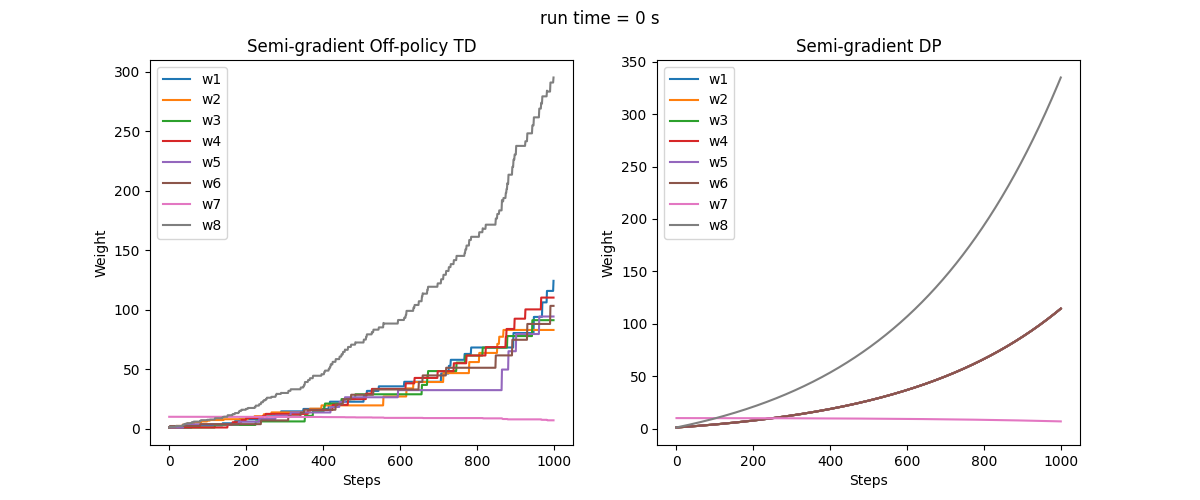
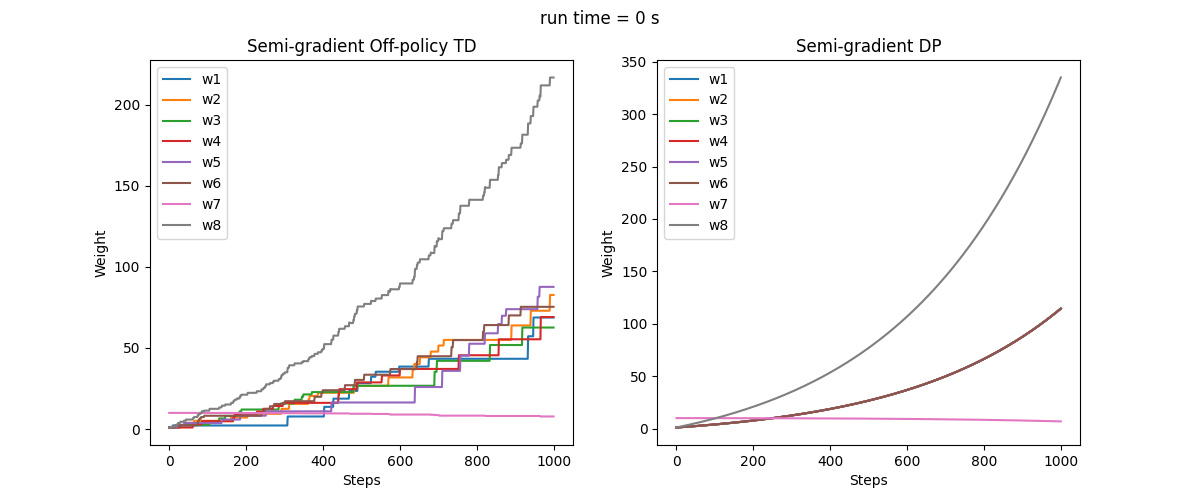
TDC

diff --git a/Part II/CH11/Bairds_counterexample_2.py b/Part II/CH11/Bairds_counterexample_2.py
@@ -11,6 +11,7 @@ class Baird:
         # Process Parameters
         self.state = 0
         self.weight = []
+        self.gradient_correction = []
 
         # Settings
         self.n_states = 7
@@ -18,19 +19,23 @@ class Baird:
         self.states = np.arange(self.n_states)
         self.max_steps = 1000
         self.eps = 0.1
-        self.step_size_alpha = 0.01
-        self.step_size_beta = 0.01
+        self.step_size_a = 0.01
+        self.step_size_b = 0.01
         self.discount = 0.99
         self.feature = np.zeros((self.n_states, self.n_weights))
 
         # Records
         self.weight_record = []
+        self.ve_record = []
+        self.pbe_record = []
 
     def reset(self):
         self.state = 0
-        self.weight = [1, 1, 1, 1, 1, 1, 10, 1]
+        self.weight = np.asarray([1, 1, 1, 1, 1, 1, 10, 1], dtype=float)
         self.weight_record = []
-
+        self.ve_record = []
+        self.pbe_record = []
+        self.gradient_correction = np.zeros(self.n_weights)
         for i, state in enumerate(self.states):
             if state in self.states[:-1]:
                 self.feature[i, i] = 2
@@ -52,6 +57,23 @@ class Baird:
             self.state = np.random.choice(self.states[:-1])
         return self.state
 
+    def mean_square_ve(self):
+        ve = np.sqrt(np.mean(np.power(np.dot(self.feature, self.weight), 2)))
+        self.ve_record.append(ve)
+
+    def mean_square_pbe(self):
+        be = np.zeros(self.n_states)
+        for state in self.states:
+            value, next_value = self.get_state_values(state), self.get_state_values(self.states[-1])
+            be[state] += 0 + self.discount * next_value - value
+        state_distribution = np.asarray([1 / self.n_states] * self.n_states)
+        state_distribution_mat = np.matrix(np.diag(state_distribution))
+        projection = np.matrix(self.feature) * \
+            np.linalg.pinv((self.feature.T * state_distribution_mat) * self.feature) * \
+            np.matrix(self.feature.T) * state_distribution_mat
+        be = np.dot(np.asarray(projection), be)
+        self.pbe_record.append(np.sqrt(np.dot(np.power(be, 2), state_distribution)))
+
     def semi_gradient_off_policy_td(self):
         self.reset()
         for _ in trange(self.max_steps):
@@ -60,7 +82,7 @@ class Baird:
             next_state = self.behavior_policy()
             next_value = self.get_state_values(next_state)
             if next_state == self.states[-1]:
-                change = 1/(1/self.n_states) * self.step_size_alpha * (0 + self.discount * next_value - value)
+                change = 1 / (1/self.n_states) * self.step_size_a * (0 + self.discount * next_value - value)
             else:
                 change = 0
             self.update_weight(state, change)
@@ -72,10 +94,54 @@ class Baird:
             change = []
             for state in self.states:
                 expected_return = 0 + self.discount * self.get_state_values(self.states[-1])
-                change.append(self.step_size_alpha * (expected_return - self.get_state_values(state)) / self.n_states)
+                change.append(self.step_size_a * (expected_return - self.get_state_values(state)) / self.n_states)
             for i, state in enumerate(self.states):
                 self.update_weight(state, change[i])
             self.weight_record.append(self.weight.copy())
+
+    def gradient_correction_td(self):
+        self.reset()
+        for _ in trange(self.max_steps):
+            state = self.state
+            value = self.get_state_values(state)
+            next_state = self.behavior_policy()
+            next_value = self.get_state_values(next_state)
+            if next_state == self.states[-1]:
+                x = self.feature[state, :]
+                next_x = self.feature[next_state, :]
+                delta = 0 + self.discount * next_value - value
+                rho = 1 / (1 / self.n_states)
+                change = rho * self.step_size_a
+                change *= delta * x - self.discount * next_x * np.dot(x, self.gradient_correction)
+                self.gradient_correction += self.step_size_b * rho * (delta - np.dot(self.gradient_correction, x) * x)
+            else:
+                change = 0
+            self.weight += np.asarray(change)
+            self.weight_record.append(self.weight.copy())
+            self.mean_square_ve()
+            self.mean_square_pbe()
+
+    def gradient_correction_td_expected(self):
+        self.reset()
+        update_weight = 1 / self.n_states
+        for _ in trange(self.max_steps):
+            changes = np.zeros(self.n_weights)
+            changes_gc = np.zeros(self.n_weights)
+            for state in self.states:
+                x, next_x = self.feature[state, :], self.feature[-1, :]
+                value, next_value = self.get_state_values(state), self.get_state_values(self.states[-1])
+                delta = 0 + self.discount * next_value - value
+                rho = 1 / (1 / self.n_states)
+                change = rho * self.step_size_a
+                change *= delta * x - self.discount * next_x * np.dot(x, self.gradient_correction)
+                change_gc = self.step_size_b * rho * (delta - np.dot(self.gradient_correction, x) * x)
+                changes += change
+                changes_gc += change_gc
+            self.weight += changes * update_weight / self.n_states
+            self.gradient_correction += changes_gc * update_weight / self.n_states
+            self.weight_record.append(self.weight.copy())
+            self.mean_square_ve()
+            self.mean_square_pbe()
 
     def figure_11_2(self):
         start_time = time.time()
@@ -106,11 +172,39 @@ class Baird:
         plt.savefig(f'images/figure 11.2.2.png')
         plt.close()
 
+    def figure_11_5(self):
+        start_time = time.time()
+        self.max_steps = 1000
+        self.step_size_a = 0.005
+        self.step_size_b = 0.05
+        plt.figure(figsize=(20, 8))
+
+        for i in range(2):
+            ax = plt.subplot(1, 2, i+1)
+            if i == 0:
+                self.gradient_correction_td()
+                plt.title('Gradient correction TD (TDC)')
+            else:
+                self.gradient_correction_td_expected()
+                plt.title('Expected TDC')
+            record = np.asarray(self.weight_record)
+            for j in range(6):
+                plt.plot(record[:, j], '--', label=f'w{j + 1}')
+            for j in range(6, 8):
+                plt.plot(record[:, j], label=f'w{j + 1}')
+            plt.plot(self.ve_record, label='msVE')
+            plt.plot(self.pbe_record, label='msPBE')
+            plt.xlabel('Steps')
+            plt.ylabel('Weight')
+            box = ax.get_position()
+            ax.set_position([box.x0, box.y0, box.width * 0.9, box.height])
+            plt.legend(bbox_to_anchor=(1.05, 1), loc='upper left')
+
+        plt.suptitle(f'run time = {int(time.time() - start_time)} s')
+        plt.savefig(f'images/figure 11.5.png')
+        plt.close()
+
 
 if __name__ == "__main__":
     a = Baird()
-    a.figure_11_2()
-
-
-
-
+    a.figure_11_5()
